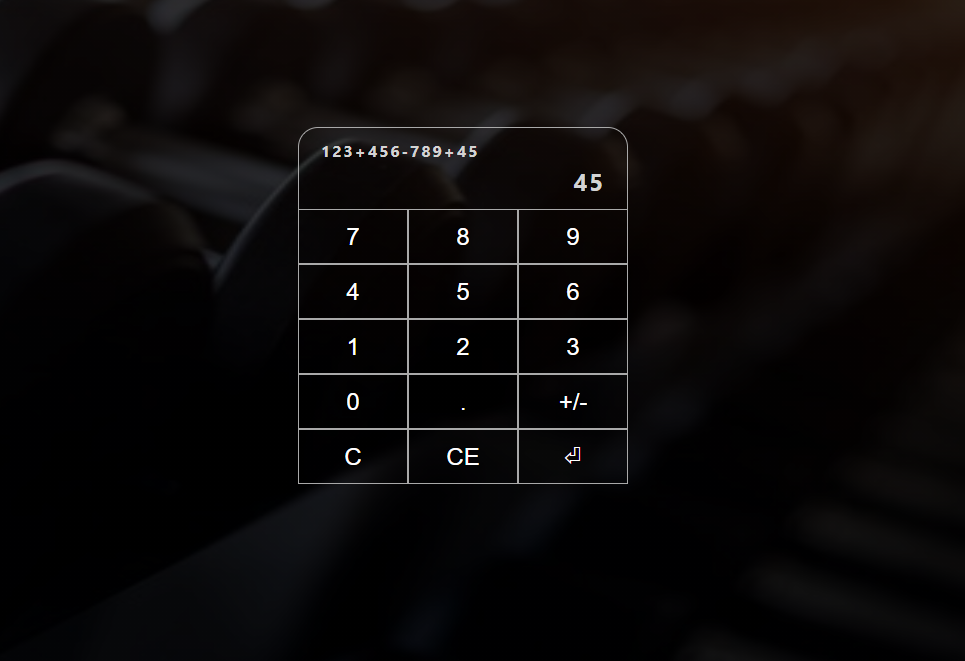
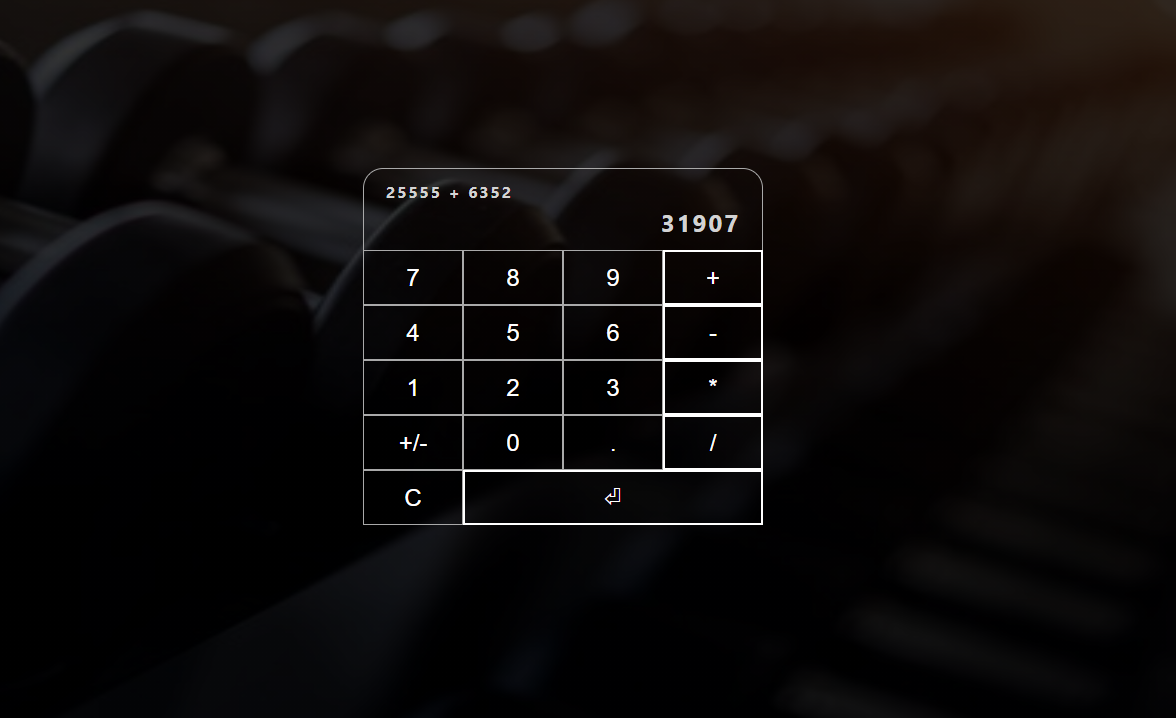
add logic to calculator

diff --git a/components/Calculator/Calculator.tsx b/components/Calculator/Calculator.tsx
@@ -1,5 +1,11 @@
-import React, { FunctionComponent, useMemo, useState } from "react";
+import React, {
+  FunctionComponent,
+  useCallback,
+  useMemo,
+  useState,
+} from "react";
 import styled from "styled-components";
+import { calculate } from "./logic";
 
 const Container = styled.div`
   display: flex;
@@ -17,18 +23,19 @@ const Wrapper = styled.div`
 const ButtonContainer = styled.div`
   display: flex;
   flex-wrap: wrap;
-  width: 330px;
+  width: 400px;
   justify-content: flex-start;
   align-items: flex-start;
 `;
 
-const Button = styled.button`
-  width: 110px;
+const Button = styled.button<{ isOperator?: boolean }>`
+  width: 100px;
   height: 55px;
   color: white;
   background: transparent;
   cursor: pointer;
-  border: 1px solid darkgray;
+  border: ${({ isOperator }) =>
+    !!isOperator ? "2px solid white" : "1px solid darkgray"};
   font-size: 1.5em;
   transition: 0.3s;
   :hover {
@@ -42,7 +49,7 @@ const ResultContainer = styled.div`
   justify-content: center;
   padding: 10px 20px;
   align-items: flex-end;
-  width: 330px;
+  width: 400px;
   border: 1px solid darkgray;
   border-bottom: none;
   border-radius: 20px 20px 0px 0px;
@@ -64,28 +71,58 @@ const ResultText = styled.h2`
   margin: 2px;
 `;
 
-const inputArrayNumbers: string[] = [
-  "7",
-  "8",
-  "9",
-  "4",
-  "5",
-  "6",
-  "1",
-  "2",
-  "3",
-  "0",
-];
+const inputArrayNumbers7To9: string[] = ["7", "8", "9"];
+const inputArrayNumbers4To6: string[] = ["4", "5", "6"];
+const inputArrayNumbers1To3: string[] = ["1", "2", "3"];
 
-const maxSizeResult: number = 15;
+const maxSizeResult: number = 20;
 
 const Calculator: FunctionComponent = () => {
   const [result, setResult] = useState("0");
   const [preview, setPreview] = useState("");
+  const [operator, setOperator] = useState("");
+  const [firstValue, setFirstValue] = useState("");
 
   const isMaxSizeReached = useMemo(() => result?.length >= maxSizeResult, [
     result,
   ]);
+
+  const onClickOperator = useCallback(
+    (_operator: string) => {
+      //  theres already something, calculate and go on
+      if (!!firstValue) {
+        const calculationResult = calculate(
+          Number(firstValue),
+          operator,
+          Number(result)
+        );
+        setFirstValue(calculationResult.toString());
+        setOperator(_operator);
+        setPreview(preview + " " + result + " " + _operator);
+        setResult("0");
+      } else {
+        setFirstValue(result);
+        setOperator(_operator);
+        setPreview(result + " " + _operator);
+        setResult("0");
+      }
+    },
+    [result]
+  );
+
+  const onClickEnter = useCallback(() => {
+    if (!firstValue || !operator) return;
+    const calculationResult = calculate(
+      Number(firstValue),
+      operator,
+      Number(result)
+    );
+
+    setPreview(`${firstValue} ${operator} ${result}`);
+    setResult(calculationResult.toString());
+    setFirstValue("");
+    setOperator("");
+  }, [firstValue, operator, result]);
 
   return (
     <Container>
@@ -95,8 +132,9 @@ const Calculator: FunctionComponent = () => {
           <ResultText>{result}</ResultText>
         </ResultContainer>
         <ButtonContainer>
-          {inputArrayNumbers.map((number) => (
+          {inputArrayNumbers7To9.map((number) => (
             <Button
+              key={number}
               onClick={() => {
                 if (isMaxSizeReached) return;
                 if (result === "0") setResult(number);
@@ -106,13 +144,38 @@ const Calculator: FunctionComponent = () => {
               {number}
             </Button>
           ))}
-          <Button
-            onClick={() => {
-              if (isMaxSizeReached) return;
-              if (!result?.includes(".")) setResult(result + ".");
-            }}
-          >
-            .
+          <Button isOperator onClick={() => onClickOperator("+")}>
+            +
+          </Button>
+          {inputArrayNumbers4To6.map((number) => (
+            <Button
+              key={number}
+              onClick={() => {
+                if (isMaxSizeReached) return;
+                if (result === "0") setResult(number);
+                else setResult(result + number);
+              }}
+            >
+              {number}
+            </Button>
+          ))}
+          <Button isOperator onClick={() => onClickOperator("-")}>
+            -
+          </Button>
+          {inputArrayNumbers1To3.map((number) => (
+            <Button
+              key={number}
+              onClick={() => {
+                if (isMaxSizeReached) return;
+                if (result === "0") setResult(number);
+                else setResult(result + number);
+              }}
+            >
+              {number}
+            </Button>
+          ))}
+          <Button isOperator onClick={() => onClickOperator("*")}>
+            *
           </Button>
           <Button
             onClick={() => {
@@ -122,16 +185,39 @@ const Calculator: FunctionComponent = () => {
           >
             +/-
           </Button>
-          <Button onClick={() => setResult("0")}>C</Button>
           <Button
             onClick={() => {
-              if (result?.length > 1) setResult(result?.slice(0, -1));
-              else setResult("0");
+              if (isMaxSizeReached) return;
+              if (result === "0") setResult("0");
+              else setResult(result + "0");
             }}
           >
-            CE
+            0
           </Button>
-          <Button onClick={() => setResult("0")}>⏎</Button>
+          <Button
+            onClick={() => {
+              if (isMaxSizeReached) return;
+              if (!result?.includes(".")) setResult(result + ".");
+            }}
+          >
+            .
+          </Button>
+          <Button isOperator onClick={() => onClickOperator("/")}>
+            /
+          </Button>
+          <Button
+            onClick={() => {
+              setResult("0");
+              setFirstValue("");
+              setOperator("");
+              setPreview("");
+            }}
+          >
+            C
+          </Button>
+          <Button isOperator style={{ width: "300px" }} onClick={onClickEnter}>
+            ⏎
+          </Button>
         </ButtonContainer>
       </Wrapper>
     </Container>

diff --git a/components/Calculator/logic.ts b/components/Calculator/logic.ts
@@ -1,0 +1,20 @@
+export const calculate: (
+  firstValue: number,
+  operator: string,
+  secondValue: number
+) => number = (firstValue, operator, secondValue) => {
+  switch (operator) {
+    case "+":
+      return firstValue + secondValue;
+    case "-":
+      return firstValue - secondValue;
+    case "*":
+      return firstValue * secondValue;
+    case "/": {
+      if (secondValue === 0) return 0;
+      else return firstValue / secondValue;
+    }
+    default:
+      return 0;
+  }
+};
